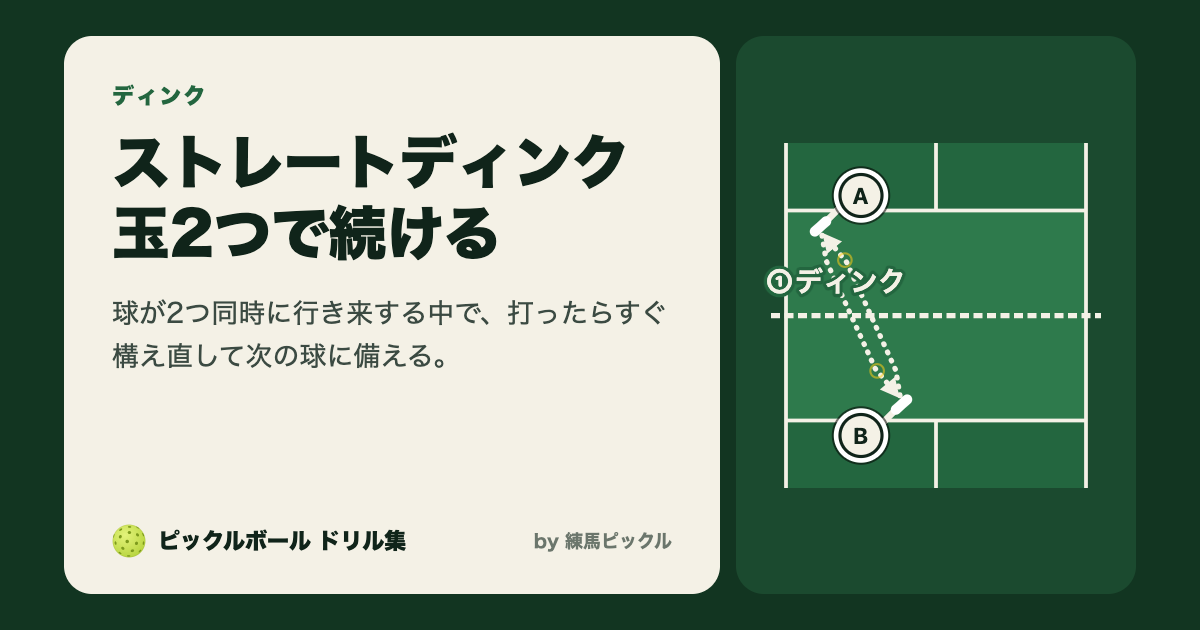
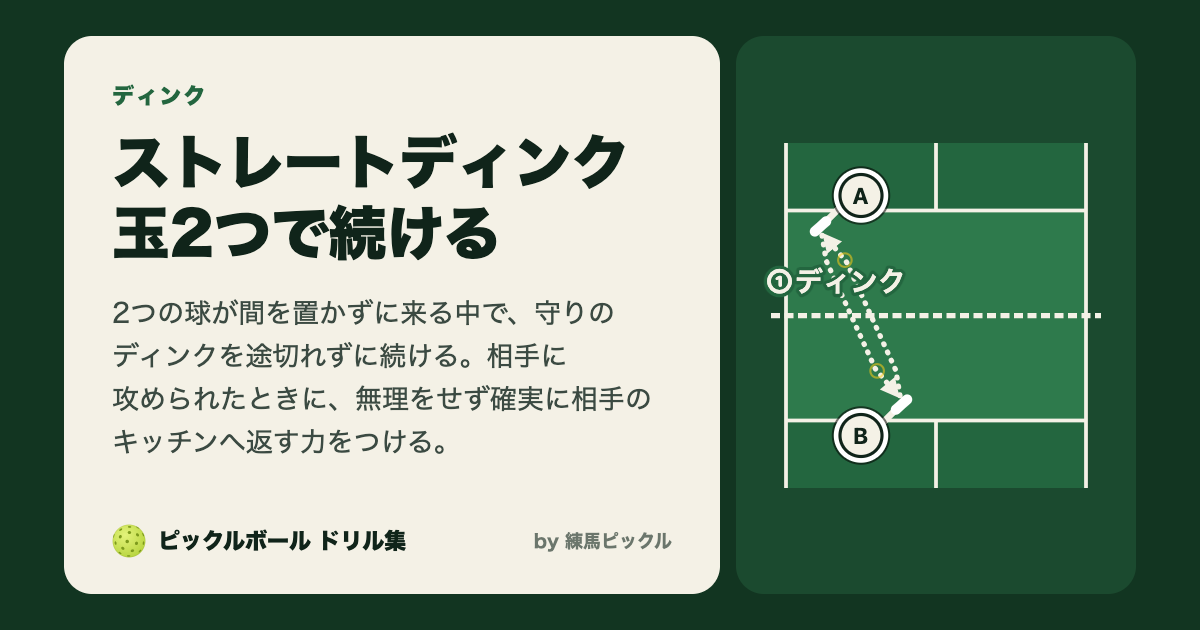
dnk002: the aim is steady defensive dinks without a pause, not just resetting quickly
Claude-Session: https://claude.ai/code/session_013HpVCpnFevpdjrfSLpZjQ3

Changed region(s): [[0.0925, 0.5429, 0.555, 0.7238], [0.0925, 0.4524, 0.555, 0.5127]]

diff --git a/src/content/docs/drills/dnk/dnk002.md b/src/content/docs/drills/dnk/dnk002.md
@@ -1,6 +1,6 @@
 ---
 title: ストレートディンク 玉2つで続ける
-description: 正面の相手と2つの球を同時に使い、ディンクを打ち合う
+description: 2つの球を同時に使い、間を置かずに来る球を守りのディンクで返し続ける
 sidebar:
   order: 3
 drill:
@@ -10,7 +10,7 @@ drill:
     - 続けるストレートディンク
   scene: 4人ともキッチンラインに並び、ディンクの打ち合いになっている。どちらかが浮いた球を出すと、相手に攻められる。
   purpose: 相手にノーバウンドで強く打たれない低さで、相手のキッチンに落とし続ける。コース・深さ・速さを変えて相手を揺さぶり、ミスや浮いた球を誘って、浮いた球をこちらから攻める。
-  focus: 球が2つ同時に行き来する中で、打ったらすぐ構え直して次の球に備える。
+  focus: 2つの球が間を置かずに来る中で、守りのディンクを途切れずに続ける。相手に攻められたときに、無理をせず確実に相手のキッチンへ返す力をつける。
   setup: 2人1組でストレート（正面）に向かい合い、2人ともキッチンライン付近に立つ。2人とも球を1つずつ持つ。1面で2組同時にできる。
   feed: 2人が同時にディンクを出して始める。
   steps:
@@ -22,7 +22,7 @@ drill:
     - パドルのヘッドを下げた形から打ち出す。ストロークのように後ろから振らない
     - 打ったらすぐパドルを体の前に戻す
     - 速さより、2つの球を続けることを優先する
-    - 相手が打ちやすい高さ・深さに返す
+    - コースや速さで攻めず、確実に相手のキッチンへ返す
   diagram:
     rally: 2
     players:
